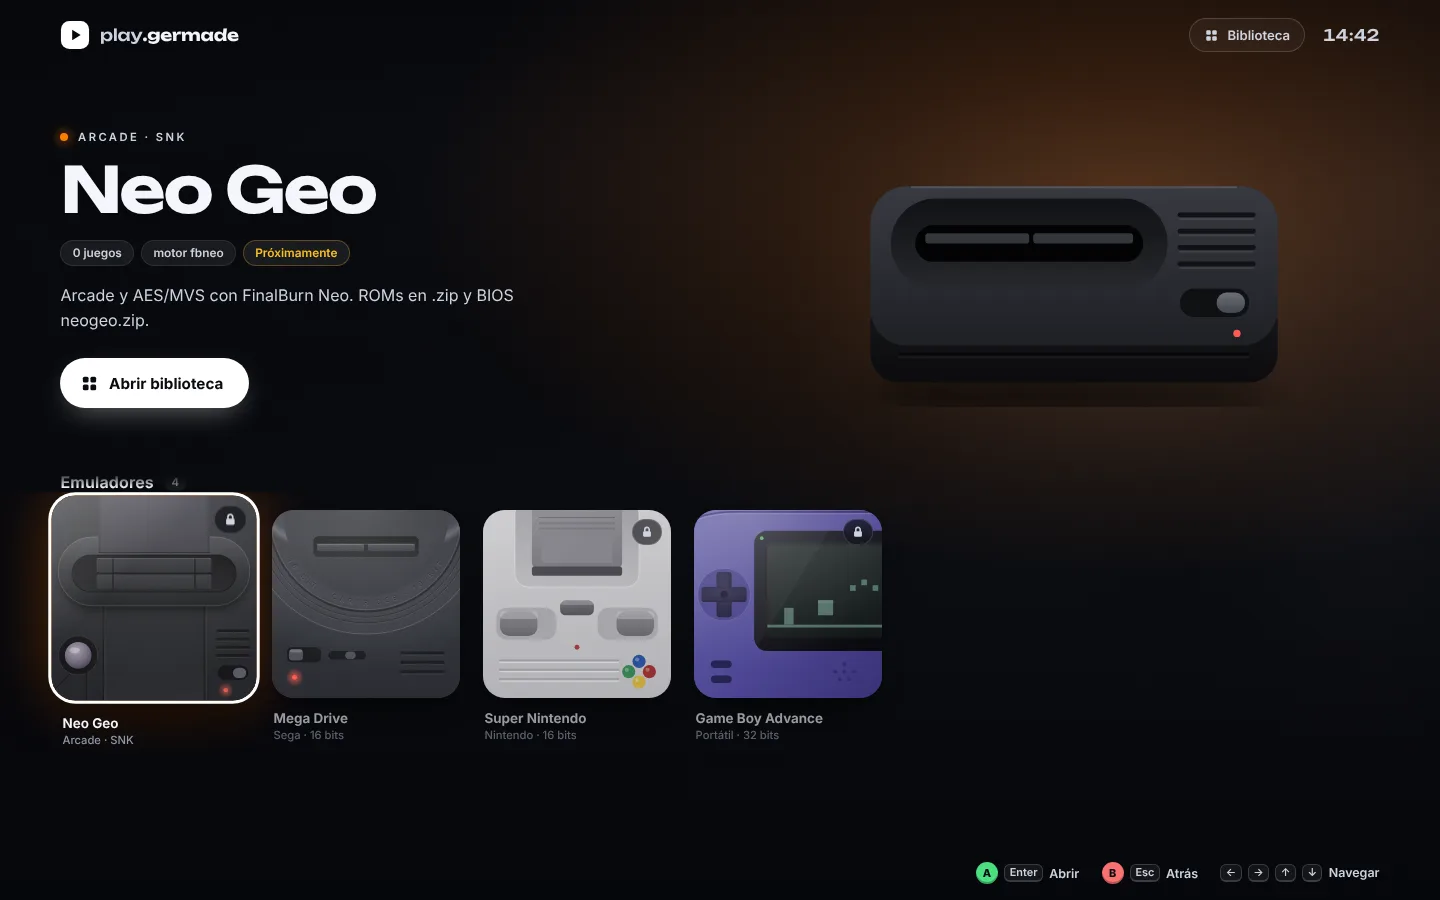
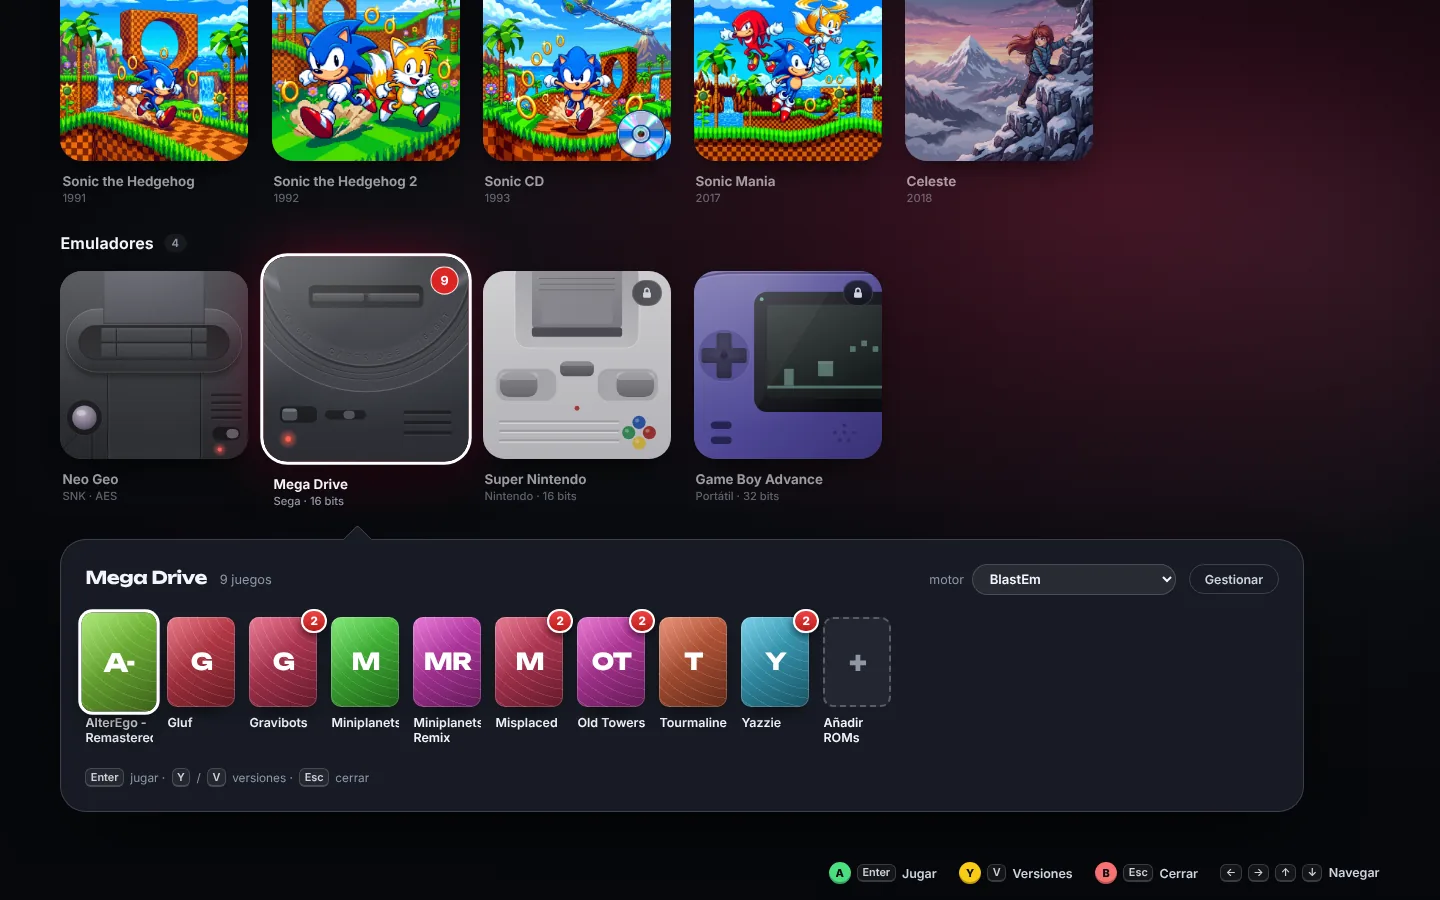
Capturas de play.germade con la versión actual
La portada con la ficha desplegada, Mega Drive con BlastEm y nueve juegos
homebrew de libre distribución, Old Towers en marcha, los puntos de
suspensión, el gestor de ROMs y la instalación de Sonic 2. El texto ya
cuenta Mega Drive y Neo Geo como disponibles.

Claude-Session: https://claude.ai/code/session_01DjKc4xH9MtdHHbEV6xQd1e

diff --git a/index.html b/index.html
@@ -352,10 +352,11 @@ dialog.lb .lb-count{position:fixed;top:24px;left:0;right:0;margin:0;text-align:c
       <div class="kicker">Juegos</div>
       <div class="p-head"><img src="img/play.svg" alt=""><div><span class="num">02</span><h3>play.germade</h3></div></div>
       <p class="tagline">Juegos retro modernos y emuladores, en tu navegador.</p>
-      <p>Una consola en la web: los motores modernos de clásicos como Sonic o Celeste, compilados a WebAssembly, y en camino, emuladores de Neo Geo, Mega Drive, Super Nintendo y Game Boy Advance. Tú aportas los datos de cada juego y se instalan en el navegador, así que no hace falta servidor.</p>
+      <p>Una consola en la web: los motores modernos de clásicos como Sonic o Celeste, compilados a WebAssembly, y emuladores: Mega Drive con BlastEm y Neo Geo con FinalBurn Neo ya funcionan; Super Nintendo y Game Boy Advance, en camino. Tú aportas los datos de cada juego y tus ROMs, y todo se queda en el navegador, así que no hace falta servidor.</p>
       <ul class="feats">
         <li><b>Retro moderno</b>: decompilaciones como RSDKv4, que mueve Sonic 1 y Sonic 2 con el mismo motor.</li>
-        <li><b>Pensada para el mando</b>: una interfaz de consola a pantalla completa que se instala como app.</li>
+        <li><b>Biblioteca de ROMs</b>: cada versión se reconoce por su CRC en el catálogo, las de un mismo juego se agrupan y los mods IPS, BPS o UPS se enganchan a la suya.</li>
+        <li><b>Pensada para el mando</b>: una interfaz de consola a pantalla completa que se instala como app, con puntos de suspensión en cada juego.</li>
       </ul>
       <ul class="chips"><li>WebAssembly</li><li>PWA</li><li>Emuladores</li><li>Gamepad API</li></ul>
       <div class="links">
@@ -363,8 +364,11 @@ dialog.lb .lb-count{position:fixed;top:24px;left:0;right:0;margin:0;text-align:c
       </div>
     </div>
     <div class="media">
-      <figure class="shot"><img src="img/play-library.webp" width="1440" height="900" alt="Biblioteca de play.germade: juegos retro modernos arriba y emuladores debajo" loading="lazy"><figcaption>La biblioteca: juegos retro modernos, que se recorren con el mando.</figcaption></figure>
-      <figure class="shot"><img src="img/play-emulators.webp" width="1440" height="900" alt="Fila de emuladores de play.germade con Neo Geo seleccionado: Mega Drive, Super Nintendo y Game Boy Advance al lado" loading="lazy"><figcaption>Los emuladores: Neo Geo con FinalBurn Neo, Mega Drive, Super Nintendo y Game Boy Advance.</figcaption></figure>
+      <figure class="shot"><img src="img/play-library.webp" width="1440" height="900" alt="Portada de play.germade con la ficha de Sonic the Hedgehog desplegada: juegos retro modernos arriba y emuladores debajo" loading="lazy"><figcaption>La portada: los retro modernos arriba y los emuladores debajo; cada uno despliega su ficha.</figcaption></figure>
+      <figure class="shot"><img src="img/play-emulators.webp" width="1440" height="900" alt="Mega Drive desplegada en la fila de emuladores, con nueve juegos homebrew y el motor BlastEm elegido" loading="lazy"><figcaption>Mega Drive con BlastEm: tus ROMs, agrupadas por juego. Aquí, homebrew de libre distribución.</figcaption></figure>
+      <figure class="shot"><img src="img/play-game.webp" width="1440" height="900" alt="Old Towers, un homebrew de RetroSouls, en pleno nivel en el emulador de Mega Drive" loading="lazy"><figcaption>Old Towers, de RetroSouls, en BlastEm compilado a WebAssembly.</figcaption></figure>
+      <figure class="shot"><img src="img/play-points.webp" width="1440" height="900" alt="Puntos de suspensión de Old Towers: el momento sin guardar y tres huecos con su miniatura" loading="lazy"><figcaption>Puntos de suspensión: guardas el momento en un hueco y vuelves a él desde su miniatura.</figcaption></figure>
+      <figure class="shot"><img src="img/play-roms.webp" width="1440" height="900" alt="Gestor de la biblioteca con Old Towers seleccionado: dos versiones con su CRC, regiones y el hueco para añadir un mod" loading="lazy"><figcaption>El gestor de ROMs: versiones identificadas por CRC, regiones y mods por versión.</figcaption></figure>
       <figure class="shot"><img src="img/play-install.webp" width="1440" height="900" alt="Diálogo para instalar Sonic the Hedgehog 2 eligiendo el archivo Data.rsdk propio" loading="lazy"><figcaption>Instalar un juego: aportas tu copia de los datos y se queda en el navegador.</figcaption></figure>
     </div>
   </article>
